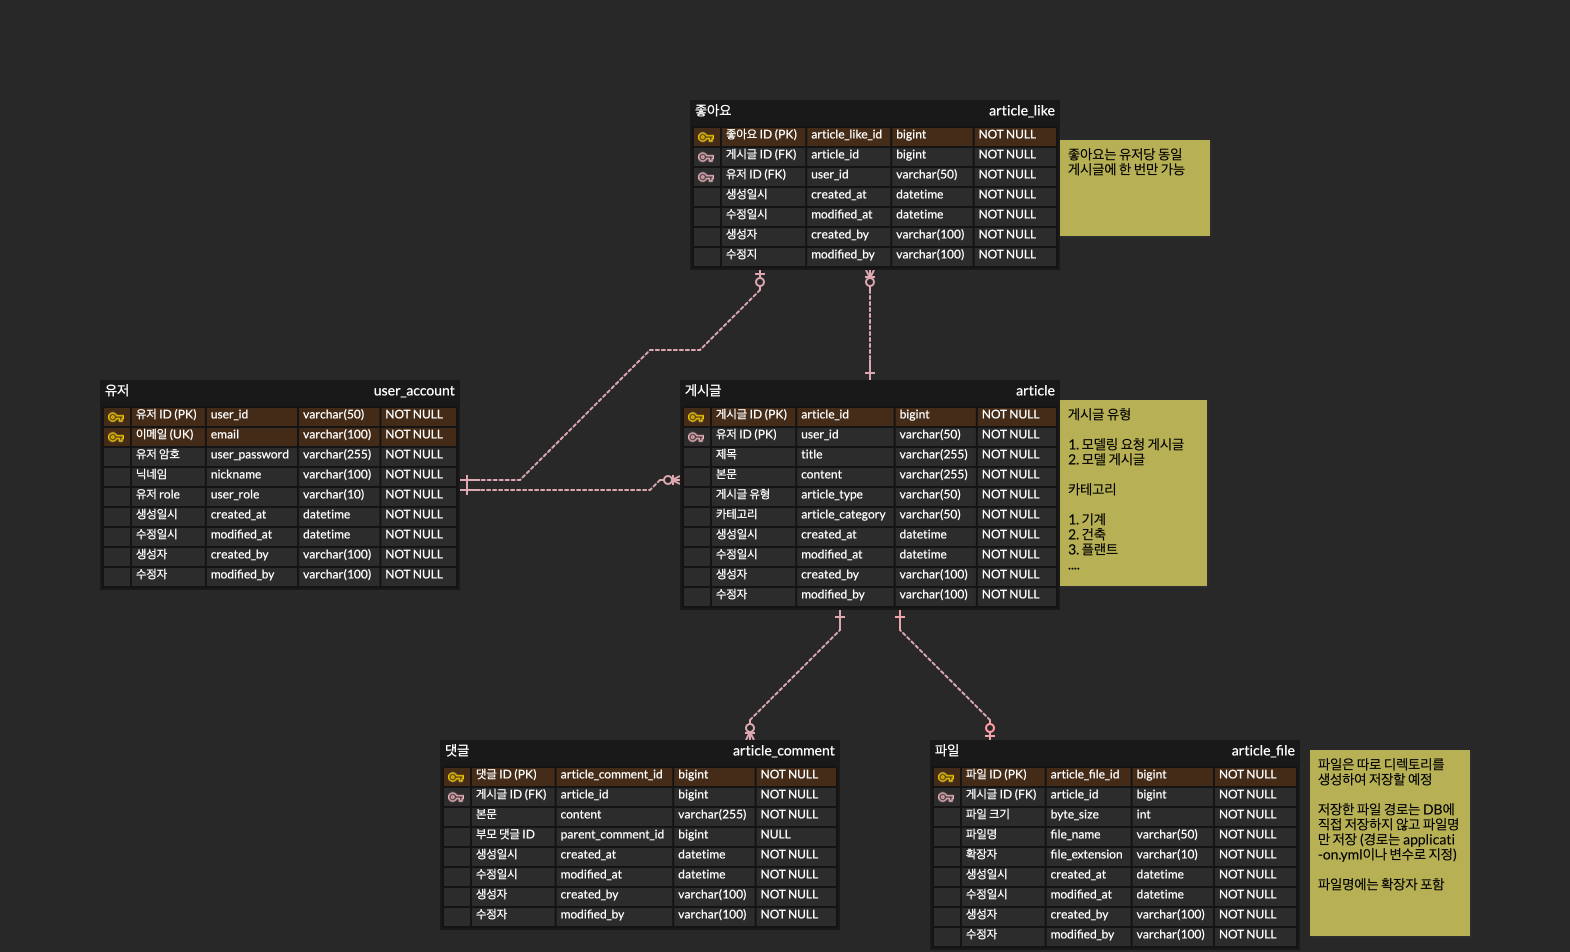
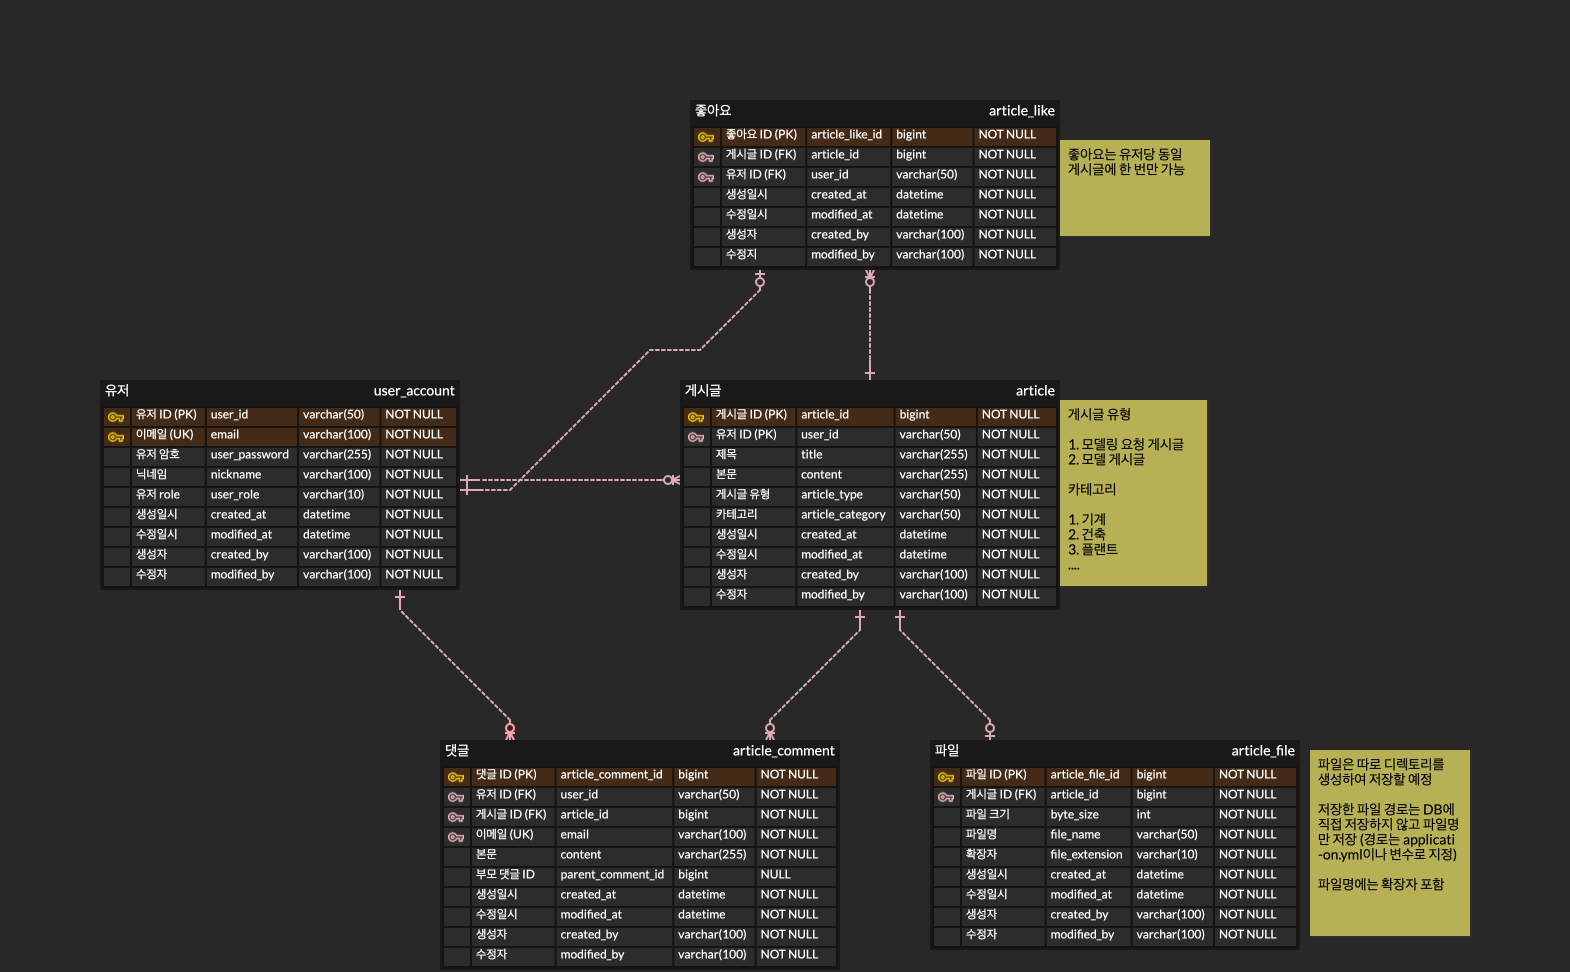
feat: ERD 수정 및 코드 수정 - 댓글과 유저와의 연관관계 추가 - Jpa Repository 테스트 코드 수정

diff --git a/src/test/java/joo/project/my3d/repository/JpaRepositoryTest.java b/src/test/java/joo/project/my3d/repository/JpaRepositoryTest.java
@@ -1,6 +1,6 @@
 package joo.project.my3d.repository;
 
-import joo.project.my3d.Fixture;
+import joo.project.my3d.fixture.Fixture;
 import joo.project.my3d.config.TestJpaConfig;
 import joo.project.my3d.domain.*;
 import joo.project.my3d.domain.constant.ArticleType;
@@ -64,9 +64,8 @@ public class JpaRepositoryTest {
         @Test
         void saveArticle() {
             // Given
-            UserAccount userAccount = Fixture.getUserAccount("joo", "pw", "joo@gmail.com", "Joo", UserRole.USER);
             ArticleFile articleFile = Fixture.getArticleFile(10000L, "test.stp", "stp");
-            Article article = Fixture.getArticle(userAccount, articleFile,"title", "content", ArticleType.REQUEST_MODELING);
+            Article article = Fixture.getArticle(articleFile, "title", "content", ArticleType.REQUEST_MODELING);
             long previousCount = articleRepository.count();
             long previousFileCount = articleFileRepository.count();
             log.info("previousCount: {}", previousCount);
@@ -227,8 +226,6 @@ public class JpaRepositoryTest {
     @AutoConfigureTestDatabase(replace = AutoConfigureTestDatabase.Replace.NONE)
     @Nested
     public class ArticleCommentJpaTest {
-
-        @Autowired private ArticleRepository articleRepository;
         @Autowired private ArticleCommentRepository articleCommentRepository;
 
         @DisplayName("댓글 findAll")
@@ -257,8 +254,7 @@ public class JpaRepositoryTest {
         @Test
         void saveArticleComment() {
             // Given
-            Article article = articleRepository.findById(1L).get();
-            ArticleComment articleComment = Fixture.getArticleComment(article, "content");
+            ArticleComment articleComment = Fixture.getArticleComment("content");
             long previousCount = articleCommentRepository.count();
             log.info("previousCount: {}", previousCount);
             // When
@@ -341,9 +337,7 @@ public class JpaRepositoryTest {
         @Test
         void saveArticleLike() {
             // Given
-            UserAccount userAccount = userAccountRepository.findById("joo").get();
-            Article article = articleRepository.findById(1L).get();
-            ArticleLike articleLike = Fixture.getArticleLike(userAccount, article);
+            ArticleLike articleLike = Fixture.getArticleLike();
             long previousCount = articleLikeRepository.count();
             log.info("previousCount: {}", previousCount);
             // When

diff --git a/src/main/java/joo/project/my3d/domain/ArticleComment.java b/src/main/java/joo/project/my3d/domain/ArticleComment.java
@@ -12,7 +12,8 @@ import java.util.Objects;
 @Table(
         name = "article_comment",
         indexes = {
-                @Index(columnList = "id")
+                @Index(columnList = "id"),
+                @Index(columnList = "articleId")
         }
 )
 @Entity
@@ -20,6 +21,10 @@ public class ArticleComment extends AuditingFields {
     @Id
     @GeneratedValue(strategy = GenerationType.IDENTITY)
     private Long id;
+
+    @ManyToOne(optional = false, fetch = FetchType.LAZY)
+    @JoinColumn(name = "userId")
+    UserAccount userAccount;
 
     @ManyToOne(optional = false, fetch = FetchType.LAZY)
     @JoinColumn(name = "articleId")
@@ -35,18 +40,19 @@ public class ArticleComment extends AuditingFields {
     protected ArticleComment() {
     }
 
-    private ArticleComment(Article article, String content, Long parentCommentId) {
+    private ArticleComment(UserAccount userAccount, Article article, String content, Long parentCommentId) {
+        this.userAccount = userAccount;
         this.article = article;
         this.content = content;
         this.parentCommentId = parentCommentId;
     }
 
-    public static ArticleComment of(Article article, String content, Long parentCommentId) {
-        return new ArticleComment(article, content, parentCommentId);
+    public static ArticleComment of(UserAccount userAccount, Article article, String content, Long parentCommentId) {
+        return new ArticleComment(userAccount, article, content, parentCommentId);
     }
 
-    public static ArticleComment of(Article article, String content) {
-        return new ArticleComment(article, content, null);
+    public static ArticleComment of(UserAccount userAccount, Article article, String content) {
+        return new ArticleComment(userAccount, article, content, null);
     }
 
     @Override
